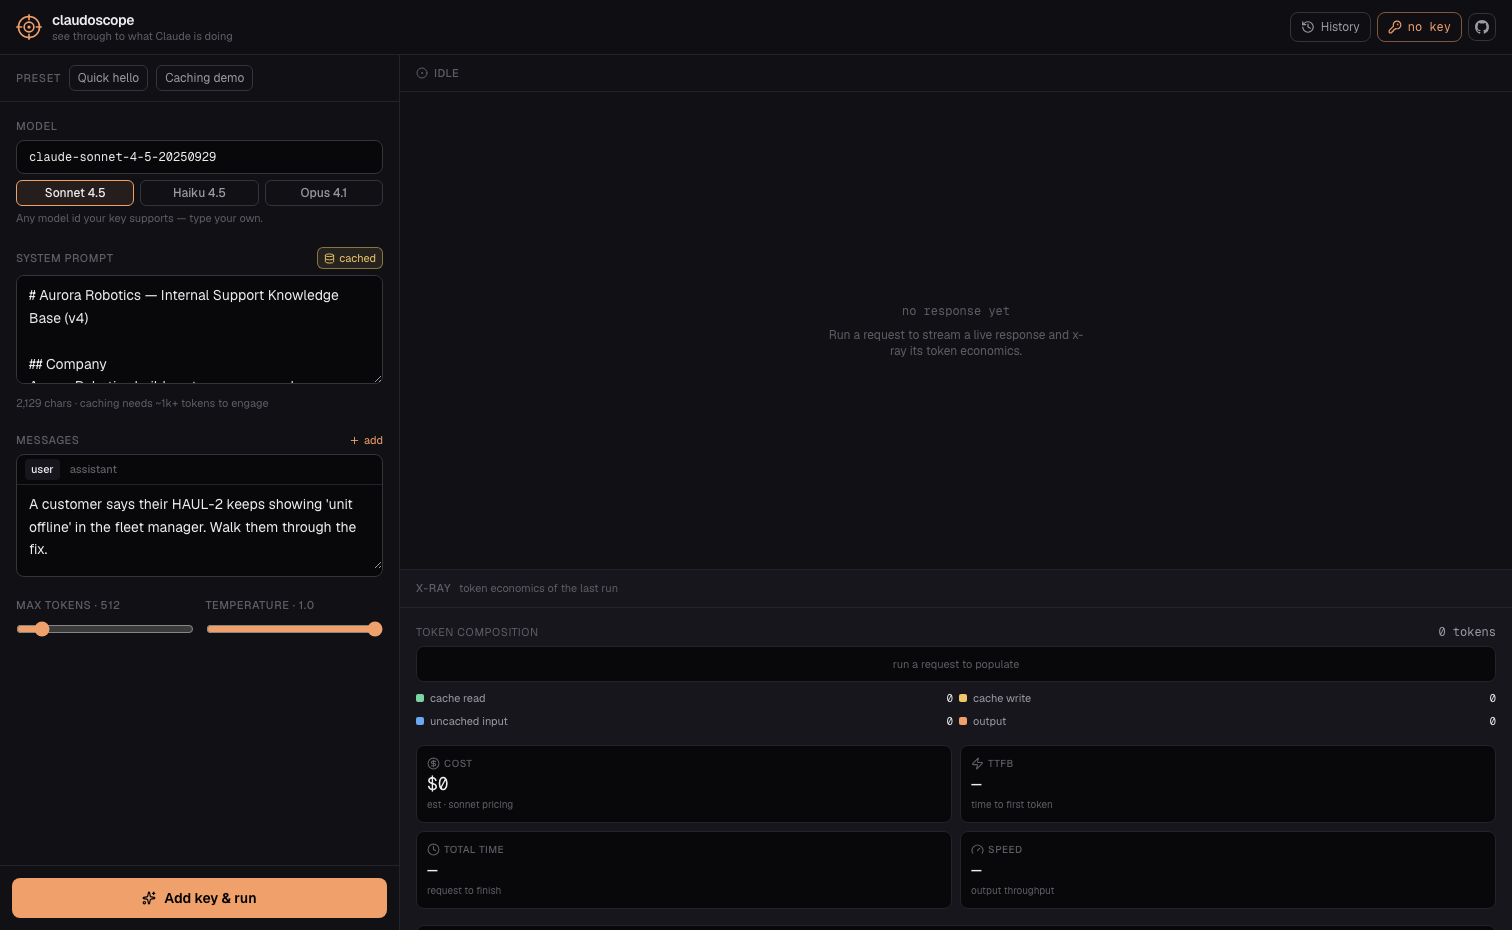
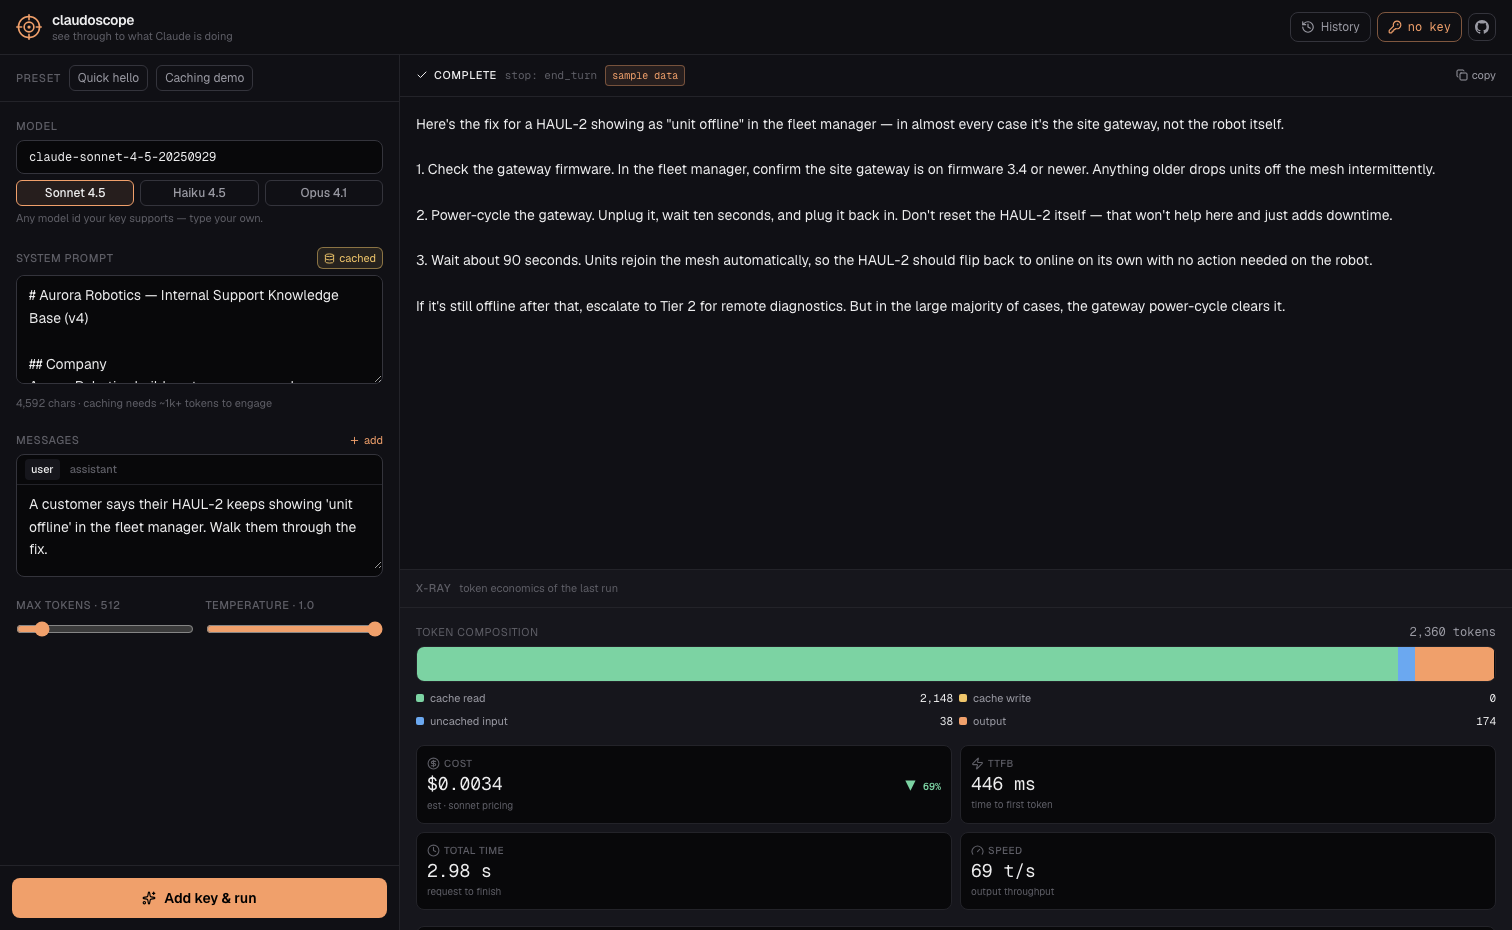
Add sample mode and fix the caching demo prompt size
- caching demo: the system prompt was ~530 tokens, below the ~1024-token
  minimum for caching to engage — expanded the knowledge base so the demo
  actually demonstrates caching
- sample mode: "Preview with sample data" populates the X-Ray with a
  representative run so visitors without an API key see the tool alive;
  also reachable via ?demo=1 for a shareable demo link
- README: real populated hero screenshot + updated feature list

diff --git a/src/lib/presets.ts b/src/lib/presets.ts
@@ -1,49 +1,99 @@
-import type { RequestState } from "./types";
+import type { RequestState, UsageStats } from "./types";
 import { uid } from "./storage";
 
-/** A long-enough document to cross the cache minimum (~1024 tokens) so a
- *  cache write, then a cache read, is actually observable on a second run. */
+/**
+ * A deliberately long support document. Prompt caching only engages above a
+ * minimum prompt size (~1024 tokens for Sonnet/Opus), so this is sized well
+ * past that — otherwise the "caching demo" would never actually cache.
+ */
 const KNOWLEDGE_BASE = `# Aurora Robotics — Internal Support Knowledge Base (v4)
 
 ## Company
-Aurora Robotics builds autonomous warehouse robots. Founded 2019, HQ in Rotterdam,
-with engineering hubs in Istanbul and Lisbon. Three product lines are in market.
+Aurora Robotics builds autonomous warehouse robots. Founded in 2019, with its
+headquarters in Rotterdam and engineering hubs in Istanbul and Lisbon. Three
+product lines are currently in market, serving roughly 240 customer sites
+across logistics, grocery, and light manufacturing. Support operates in English,
+Dutch, Turkish, and Portuguese, 24 hours a day.
 
 ## Products
-1. PICK-1 — a mobile picking arm. Payload 6 kg, reach 1.1 m, battery 9 hours.
-   Firmware channel: stable. Known issue: gripper recalibration needed every 400 cycles.
-2. HAUL-2 — an autonomous pallet mover. Payload 1,200 kg, top speed 1.8 m/s.
-   Firmware channel: stable. Known issue: LIDAR fogging in cold-storage zones below 2°C.
-3. SORT-3 — a conveyor sortation unit. Throughput 2,400 parcels/hour.
-   Firmware channel: beta. Known issue: barcode misreads on reflective poly mailers.
+
+### PICK-1 — mobile picking arm
+A six-axis picking arm on a mobile base. Payload 6 kg, reach 1.1 m, repeatability
+0.2 mm, battery life roughly 9 hours of mixed-duty use. Firmware channel: stable.
+Known issue: the gripper needs a recalibration cycle every 400 picks; the robot
+will pause and prompt for this automatically. Recalibration takes about 40
+seconds and does not require an engineer.
+
+### HAUL-2 — autonomous pallet mover
+A low-profile pallet mover. Payload 1,200 kg, top speed 1.8 m/s, turning radius
+0 (it rotates in place). Battery life roughly 11 hours. Firmware channel: stable.
+Known issue: the LIDAR housing can fog in cold-storage zones below 2°C, which
+makes the unit slow down or stop. The fix is a heated LIDAR collar, shipped free
+to any cold-storage site on request.
+
+### SORT-3 — conveyor sortation unit
+A modular conveyor sortation unit. Throughput 2,400 parcels per hour per lane,
+up to six lanes. Firmware channel: beta. Known issue: barcode misreads on
+highly reflective poly mailers; enabling "polarized scan mode" in the lane
+settings resolves it in almost all cases.
 
 ## Warranty
-All units ship with a 24-month limited warranty. Battery packs carry a separate
-12-month warranty. Warranty is void if firmware is sideloaded outside the OTA channel.
-Extended warranty (AuroraCare+) adds 24 months and 4-hour on-site response.
+Every unit ships with a 24-month limited warranty. Battery packs carry a
+separate 12-month warranty because they are a wear item. The warranty is void
+if firmware is sideloaded outside the official over-the-air (OTA) channel, or
+if the chassis is opened by anyone who is not an Aurora-certified technician.
+The extended plan, AuroraCare+, adds another 24 months of coverage and a
+guaranteed 4-hour on-site response window.
 
 ## Support tiers
-- Tier 1: portal + email, response within 1 business day.
-- Tier 2: phone + remote diagnostics, response within 4 hours.
-- Tier 3 (AuroraCare+): on-site engineer within 4 hours, 24/7.
+- Tier 1: customer portal and email. Response within 1 business day. Handles
+  how-to questions, configuration help, and shipping of self-service parts.
+- Tier 2: phone support plus remote diagnostics over the fleet gateway.
+  Response within 4 hours. Handles connectivity faults, calibration problems,
+  and anything Tier 1 cannot resolve in two exchanges.
+- Tier 3 (AuroraCare+ only): an on-site engineer within 4 hours, available
+  24/7. Reserved for safety incidents, hardware failures, and line-down events.
 
 ## Common resolutions
-- "Robot will not dock": check charging contacts, then re-run the docking calibration
-  from Settings > Maintenance > Dock. Escalate to Tier 2 if it fails twice.
-- "Estop keeps tripping": inspect the bumper skirt for debris; a bent skirt rail is
-  the most frequent root cause. Replacement rails ship same-day.
-- "Fleet manager shows unit offline": confirm the site gateway has firmware >= 3.4,
-  then power-cycle the gateway. Units rejoin the mesh automatically within 90 seconds.
+
+### "Robot will not dock"
+Check the charging contacts on both the robot and the dock for dust or debris,
+then re-run the docking calibration from Settings > Maintenance > Dock. If it
+fails twice in a row, escalate to Tier 2 — a misaligned dock plate usually needs
+remote diagnostics to confirm.
+
+### "Emergency stop keeps tripping"
+Inspect the bumper skirt for debris or a bent skirt rail. A bent rail is by far
+the most common root cause; it presses the contact switch even when nothing is
+in the robot's path. Replacement rails ship same-day and clip on without tools.
+
+### "Fleet manager shows unit offline"
+First confirm the site gateway is running firmware 3.4 or newer — older gateway
+firmware drops units off the mesh intermittently. Then power-cycle the gateway:
+unplug it, wait ten seconds, plug it back in. Do not reset the robot itself.
+Units rejoin the mesh automatically within about 90 seconds.
+
+### "Battery drains faster than expected"
+Battery capacity is a wear item and drops gradually. If a pack holds less than
+70% of rated runtime, it qualifies for warranty replacement within the first
+12 months. Check the pack health figure in Settings > Power before escalating.
+
+### "Robot moves slowly or hesitates"
+On HAUL-2 units in cold storage, this is almost always LIDAR fogging — request
+the heated LIDAR collar. On other units, check for a dirty floor marker or a
+worn navigation tag along the affected route.
 
 ## Escalation policy
-Safety incidents (any contact with a person) are always Tier 3 and must be logged
-within 1 hour. Fire, smoke, or battery swelling triggers an immediate field recall
-of the affected serial range.
+Any safety incident — meaning any physical contact between a robot and a person,
+however minor — is always Tier 3 and must be logged within 1 hour, no exceptions.
+Fire, smoke, or a visibly swollen battery triggers an immediate field recall of
+the affected serial range and a notification to the regional safety lead.
 
-## Tone
-Be concise, calm, and specific. Always cite the exact menu path. Never invent a
-serial number or a firmware version. If the answer is not in this document, say so
-and route the customer to a human engineer.`;
+## Tone and writing style
+Be concise, calm, and specific. Always cite the exact menu path when there is
+one. Never invent a serial number, a firmware version, or a part number. If the
+answer is not in this document, say so plainly and route the customer to a
+human engineer rather than guessing.`;
 
 export interface Preset {
   id: string;
@@ -91,3 +141,46 @@ export const PRESETS: Preset[] = [
 ];
 
 export const DEFAULT_REQUEST: RequestState = PRESETS[1].build();
+
+/**
+ * Canned data for the "preview with sample" button — so a visitor without an
+ * API key still sees the X-Ray fully alive. Clearly labelled as sample in the
+ * UI; these numbers are illustrative, not from a live call.
+ */
+export interface SampleData {
+  output: string;
+  usage: UsageStats;
+  prevUsage: UsageStats;
+  prevModel: string;
+  latencyMs: number;
+  ttfbMs: number;
+  stopReason: string;
+}
+
+export const SAMPLE: SampleData = {
+  output: `Here's the fix for a HAUL-2 showing as "unit offline" in the fleet manager — in almost every case it's the site gateway, not the robot itself.
+
+1. Check the gateway firmware. In the fleet manager, confirm the site gateway is on firmware 3.4 or newer. Anything older drops units off the mesh intermittently.
+
+2. Power-cycle the gateway. Unplug it, wait ten seconds, and plug it back in. Don't reset the HAUL-2 itself — that won't help here and just adds downtime.
+
+3. Wait about 90 seconds. Units rejoin the mesh automatically, so the HAUL-2 should flip back to online on its own with no action needed on the robot.
+
+If it's still offline after that, escalate to Tier 2 for remote diagnostics. But in the large majority of cases, the gateway power-cycle clears it.`,
+  usage: {
+    input_tokens: 38,
+    output_tokens: 174,
+    cache_read_input_tokens: 2148,
+    cache_creation_input_tokens: 0,
+  },
+  prevUsage: {
+    input_tokens: 38,
+    output_tokens: 169,
+    cache_read_input_tokens: 0,
+    cache_creation_input_tokens: 2148,
+  },
+  prevModel: "claude-sonnet-4-5-20250929",
+  latencyMs: 2980,
+  ttfbMs: 446,
+  stopReason: "end_turn",
+};

diff --git a/src/app/page.tsx b/src/app/page.tsx
@@ -9,7 +9,7 @@ import { OutputPane, type RunStatus } from "@/components/OutputPane";
 import { XRayPanel } from "@/components/XRayPanel";
 import { HistoryDrawer } from "@/components/HistoryDrawer";
 import { runStream } from "@/lib/anthropic";
-import { DEFAULT_REQUEST } from "@/lib/presets";
+import { DEFAULT_REQUEST, PRESETS, SAMPLE } from "@/lib/presets";
 import {
   loadApiKey,
   saveApiKey,
@@ -43,6 +43,7 @@ export default function Home() {
   const [ttfbMs, setTtfbMs] = useState<number | null>(null);
   const [history, setHistory] = useState<RunResult[]>([]);
   const [prevRun, setPrevRun] = useState<RunResult | null>(null);
+  const [sample, setSample] = useState(false);
 
   const abortRef = useRef<AbortController | null>(null);
   const historyRef = useRef<RunResult[]>([]);
@@ -66,6 +67,7 @@ export default function Home() {
 
     // Snapshot the most recent past run so the X-Ray can show a cost delta.
     setPrevRun(historyRef.current[0] ?? null);
+    setSample(false);
 
     setStatus("streaming");
     setOutput("");
@@ -154,6 +156,7 @@ export default function Home() {
   const restore = (r: RunResult) => {
     setRequest(structuredClone(r.request));
     setPrevRun(null);
+    setSample(false);
     setOutput(r.output);
     setUsage(r.usage);
     setLatencyMs(r.latencyMs);
@@ -163,6 +166,44 @@ export default function Home() {
     setStatus(r.error ? "error" : "done");
     setShowHistory(false);
   };
+
+  // Populate the UI with canned data so a visitor without a key sees it alive.
+  const loadSample = () => {
+    if (status === "streaming") return;
+    const req = PRESETS[1].build();
+    setRequest(req);
+    setPrevRun({
+      id: "sample-prev",
+      createdAt: Date.now(),
+      model: SAMPLE.prevModel,
+      request: req,
+      output: "",
+      usage: SAMPLE.prevUsage,
+      latencyMs: 0,
+      ttfbMs: null,
+      stopReason: "end_turn",
+    });
+    setOutput(SAMPLE.output);
+    setUsage(SAMPLE.usage);
+    setLatencyMs(SAMPLE.latencyMs);
+    setTtfbMs(SAMPLE.ttfbMs);
+    setStopReason(SAMPLE.stopReason);
+    setError(null);
+    setStatus("done");
+    setSample(true);
+  };
+
+  // Open with ?demo=1 (or #demo) to land straight on the sample run.
+  const demoLoaded = useRef(false);
+  useEffect(() => {
+    if (demoLoaded.current || typeof window === "undefined") return;
+    const params = new URLSearchParams(window.location.search);
+    if (params.has("demo") || window.location.hash === "#demo") {
+      demoLoaded.current = true;
+      loadSample();
+    }
+    // eslint-disable-next-line react-hooks/exhaustive-deps
+  }, []);
 
   const keyMasked = apiKey ? `••••${apiKey.slice(-4)}` : "no key";
 
@@ -238,6 +279,8 @@ export default function Home() {
               output={output}
               error={error}
               stopReason={stopReason}
+              sample={sample}
+              onLoadSample={loadSample}
             />
           </div>
           <div className="min-h-0 bg-bg-elev-2">

diff --git a/src/components/OutputPane.tsx b/src/components/OutputPane.tsx
@@ -10,9 +10,18 @@ interface Props {
   output: string;
   error: string | null;
   stopReason: string | null;
+  sample?: boolean;
+  onLoadSample?: () => void;
 }
 
-export function OutputPane({ status, output, error, stopReason }: Props) {
+export function OutputPane({
+  status,
+  output,
+  error,
+  stopReason,
+  sample,
+  onLoadSample,
+}: Props) {
   const scrollRef = useRef<HTMLDivElement>(null);
   const [copied, setCopied] = useState(false);
 
@@ -36,6 +45,11 @@ export function OutputPane({ status, output, error, stopReason }: Props) {
           {stopReason && status === "done" && (
             <span className="font-mono text-[11px] text-fg-faint">
               stop: {stopReason}
+            </span>
+          )}
+          {sample && (
+            <span className="rounded border border-accent/40 bg-accent/10 px-1.5 py-0.5 font-mono text-[10px] text-accent">
+              sample data
             </span>
           )}
         </div>
@@ -64,7 +78,7 @@ export function OutputPane({ status, output, error, stopReason }: Props) {
             )}
           </div>
         ) : (
-          <EmptyState status={status} />
+          <EmptyState status={status} onLoadSample={onLoadSample} />
         )}
       </div>
     </div>
@@ -87,15 +101,29 @@ function StatusBadge({ status }: { status: RunStatus }) {
   );
 }
 
-function EmptyState({ status }: { status: RunStatus }) {
+function EmptyState({
+  status,
+  onLoadSample,
+}: {
+  status: RunStatus;
+  onLoadSample?: () => void;
+}) {
   return (
     <div className="flex h-full flex-col items-center justify-center text-center">
       <div className="mb-2 font-mono text-xs text-fg-faint">
         {status === "streaming" ? "waiting for first token…" : "no response yet"}
       </div>
-      <p className="max-w-[16rem] text-xs text-fg-faint">
+      <p className="mb-4 max-w-[17rem] text-xs text-fg-faint">
         Run a request to stream a live response and x-ray its token economics.
       </p>
+      {status === "idle" && onLoadSample && (
+        <button
+          onClick={onLoadSample}
+          className="rounded-lg border border-border-strong px-3 py-1.5 text-xs text-fg-muted transition-colors hover:border-accent hover:text-fg"
+        >
+          Preview with sample data
+        </button>
+      )}
     </div>
   );
 }

diff --git a/README.md b/README.md
@@ -10,9 +10,8 @@ No backend. No accounts. Your API key never leaves your browser.
 
 ![claudoscope](docs/preview.png)
 
-> The shot above is the idle state. Run the **Caching demo** twice and the
-> X-Ray bar fills with color — replace `docs/preview.png` with that for the
-> full effect.
+> No API key handy? Append **`?demo=1`** to the URL to land straight on a
+> sample run — the screenshot above is exactly that view.
 
 ---
 
@@ -42,10 +41,14 @@ Prompt caching can cut cost by ~90% on the cached portion — but only if you ca
 - **Real economics** — estimated cost, time-to-first-token, total latency,
   output throughput (tokens/sec), and a cache-impact readout showing exactly
   how much a cache hit saved you.
+- **Cost delta** — every run's cost is compared to the one before it, so the
+  caching demo lands: the second run visibly drops ~70%.
 - **Caching demo built in** — a preset with a long cached system prompt. Run it
   twice and watch the yellow *cache write* turn into a green *cache read*.
-- **History** — the last 25 runs are saved locally; click any one to restore
-  the full request and its x-ray.
+- **Session history** — the last 25 runs are saved locally with a cost-per-run
+  bar chart; click any run to restore the full request and its x-ray.
+- **Sample mode** — no key? Hit *Preview with sample data* (or open `?demo=1`)
+  to see the whole tool populated with a representative run.
 
 ## The caching demo
 
